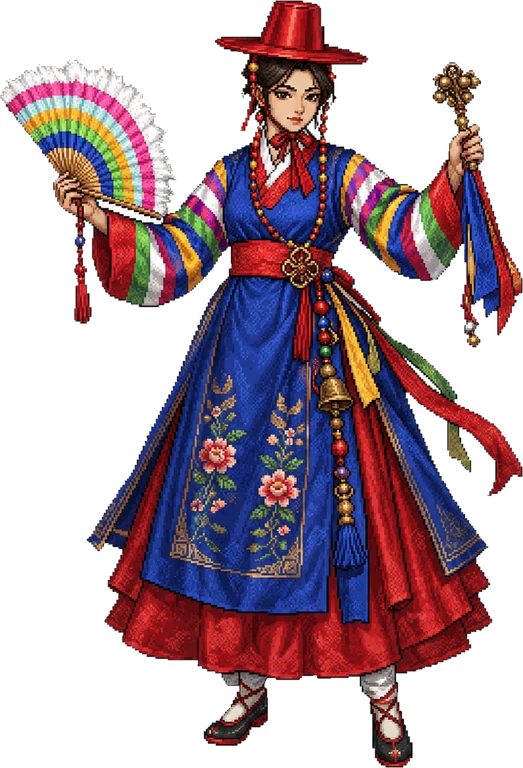
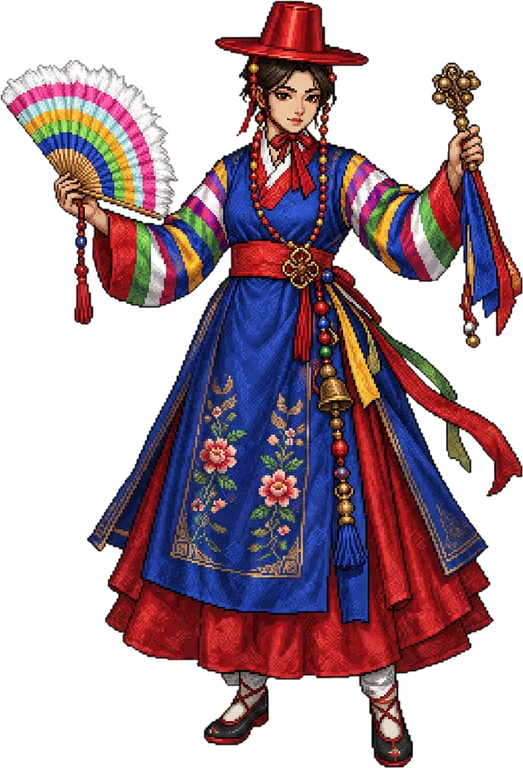
fix(coop): unstick wait screen on last picker; swap to Photoroom cutout
- Bug: when the HOST picked last, MP.notifyPicked() synchronously ran
  proceedNextWave → coopHostStartNextWave (which hides the wait screen and
  starts the wave), but the caller then re-showed the wait overlay — leaving
  that player stuck on the 'waiting' screen while the game ran underneath.
  Now show the wait screen BEFORE notifyPicked so a synchronous completion
  hides it again. Same order applied on the guest path.
- Replace assets/player.webp with the user's clean Photoroom cutout
  (real alpha, no white halo); trim + resize to 523x768. Drop the raw PNG.

diff --git a/js/main.js b/js/main.js
@@ -807,8 +807,13 @@
         UI.showUpgradeMenu(game.player, game.wave.number, () => {
           UI.hideUpgradeMenu();
           if (coopHost) {
+            // Show the wait screen BEFORE notifying: if this pick was the last
+            // one, notifyPicked() synchronously runs proceedNextWave →
+            // coopHostStartNextWave, which hides the wait screen and starts the
+            // wave. Showing it afterwards would leave a stale overlay covering
+            // the resumed game (the "stuck on the wait screen" bug).
+            showCoopWait();
             MP.notifyPicked();   // records host's pick; advances when all in
-            showCoopWait();      // freeze on a clean wait screen until everyone picks
           } else {
             startNextWave();
             game.state = STATE.PLAYING;
@@ -844,8 +849,8 @@
     setTimeout(() => {
       UI.showUpgradeMenu(game.player, wave, () => {
         UI.hideUpgradeMenu();
-        MP.notifyPicked();   // → host
         showCoopWait();      // frozen wait screen until the host signals wave_start
+        MP.notifyPicked();   // → host
       });
     }, 400);
   }
